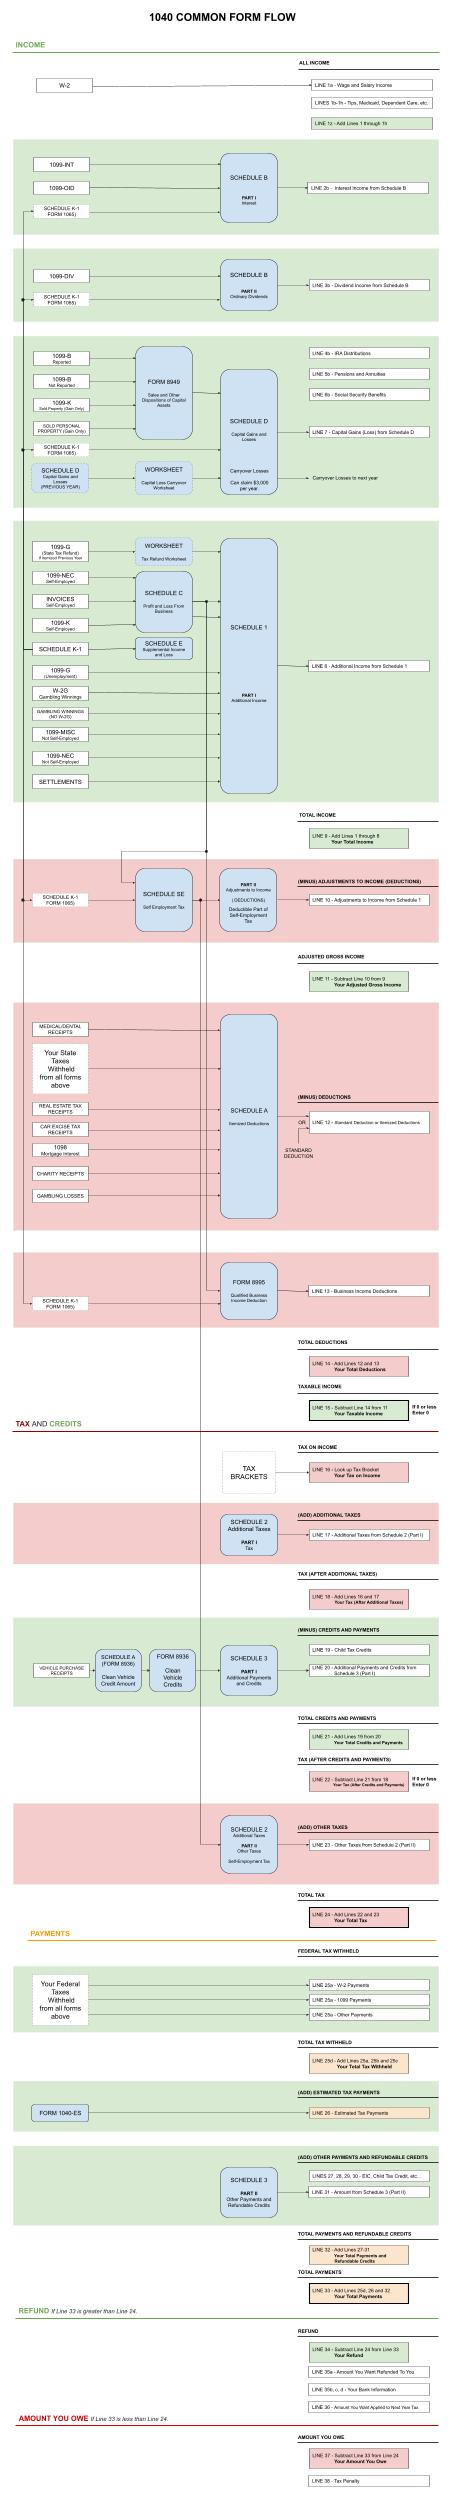
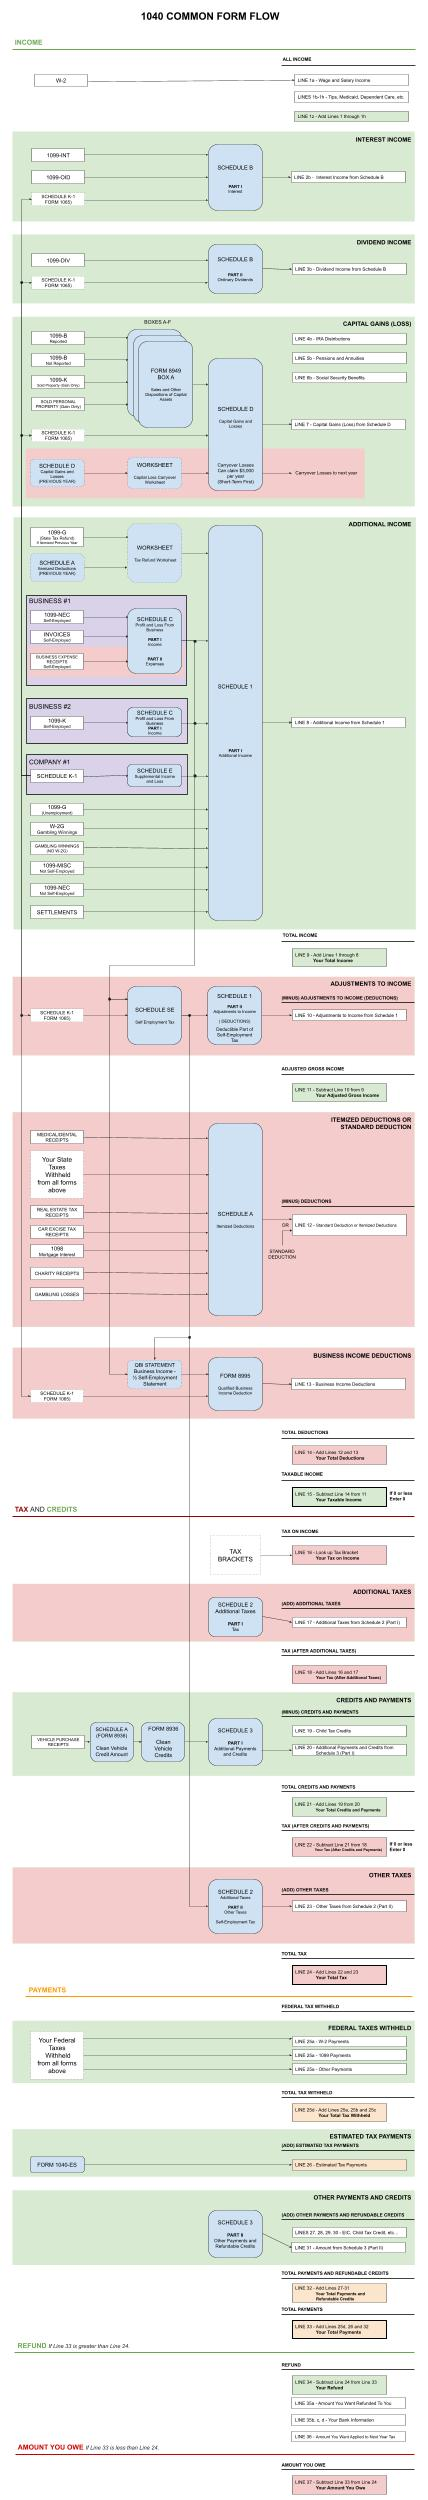
udpate taxes

diff --git a/other/random-things/taxes-cheat-sheet/README.md b/other/random-things/taxes-cheat-sheet/README.md
@@ -12,11 +12,20 @@ Table of Contents
   * [REFUND](https://github.com/JeffDeCola/my-cheat-sheets/tree/master/other/random-things/taxes-cheat-sheet#refund)
   * [AMOUNT YOU OWE](https://github.com/JeffDeCola/my-cheat-sheets/tree/master/other/random-things/taxes-cheat-sheet#amount-you-owe)
 * [RECEIVED FORMS](https://github.com/JeffDeCola/my-cheat-sheets/tree/master/other/random-things/taxes-cheat-sheet#received-forms)
+  * [WAGE INCOME](https://github.com/JeffDeCola/my-cheat-sheets/tree/master/other/random-things/taxes-cheat-sheet#wage-income)
+  * [INTEREST INCOME](https://github.com/JeffDeCola/my-cheat-sheets/tree/master/other/random-things/taxes-cheat-sheet#interest-income)
+  * [DIVIDEND INCOME](https://github.com/JeffDeCola/my-cheat-sheets/tree/master/other/random-things/taxes-cheat-sheet#dividend-income)
+  * [CAPITAL GAINS (LOSS) INCOME](https://github.com/JeffDeCola/my-cheat-sheets/tree/master/other/random-things/taxes-cheat-sheet#capital-gains-loss-income)
+  * [ADDITIONAL INCOME](https://github.com/JeffDeCola/my-cheat-sheets/tree/master/other/random-things/taxes-cheat-sheet#additional-income)
+  * [ITEMIZED DEDUCTIONS](https://github.com/JeffDeCola/my-cheat-sheets/tree/master/other/random-things/taxes-cheat-sheet#itemized-deductions)
+  * [CREDITS](https://github.com/JeffDeCola/my-cheat-sheets/tree/master/other/random-things/taxes-cheat-sheet#credits)
+  * [ESTIMATED TAX PAYMENTS](https://github.com/JeffDeCola/my-cheat-sheets/tree/master/other/random-things/taxes-cheat-sheet#estimated-tax-payments)
+  * [RETIREMENT INFORMATION](https://github.com/JeffDeCola/my-cheat-sheets/tree/master/other/random-things/taxes-cheat-sheet#retirement-information)
 * [SCHEDULES AND OTHER FORMS](https://github.com/JeffDeCola/my-cheat-sheets/tree/master/other/random-things/taxes-cheat-sheet#schedules-and-other-forms)
   * [SCHEDULE B - INTEREST AND ORDINARY DIVIDENDS](https://github.com/JeffDeCola/my-cheat-sheets/tree/master/other/random-things/taxes-cheat-sheet#schedule-b---interest-and-ordinary-dividends)
   * [FORM 8949 - SALES AND OTHER DISPOSITIONS OF CAPITAL ASSETS](https://github.com/JeffDeCola/my-cheat-sheets/tree/master/other/random-things/taxes-cheat-sheet#form-8949---sales-and-other-dispositions-of-capital-assets)
-  * [CAPITAL LOSS CARRYOVER WORKSHEET](https://github.com/JeffDeCola/my-cheat-sheets/tree/master/other/random-things/taxes-cheat-sheet#capital-loss-carryover-worksheet)
   * [SCHEDULE D - CAPITAL GAINS AND LOSSES](https://github.com/JeffDeCola/my-cheat-sheets/tree/master/other/random-things/taxes-cheat-sheet#schedule-d---capital-gains-and-losses)
+  * [CAPITAL LOSS CARRYOVER WORKSHEET](https://github.com/JeffDeCola/my-cheat-sheets/tree/master/other/random-things/taxes-cheat-sheet#capital-loss-carryover-worksheet)
   * [TAX REFUND WORKSHEET](https://github.com/JeffDeCola/my-cheat-sheets/tree/master/other/random-things/taxes-cheat-sheet#tax-refund-worksheet)
   * [SCHEDULE 1 - ADDITIONAL INCOME AND ADJUSTMENTS TO INCOME](https://github.com/JeffDeCola/my-cheat-sheets/tree/master/other/random-things/taxes-cheat-sheet#schedule-1---additional-income-and-adjustments-to-income)
   * [SCHEDULE C - PROFIT OR LOSS FROM BUSINESS (SOLE PROPRIETORSHIP)](https://github.com/JeffDeCola/my-cheat-sheets/tree/master/other/random-things/taxes-cheat-sheet#schedule-c---profit-or-loss-from-business-sole-proprietorship)
@@ -24,10 +33,10 @@ Table of Contents
   * [SCHEDULE SE - SELF-EMPLOYMENT TAX](https://github.com/JeffDeCola/my-cheat-sheets/tree/master/other/random-things/taxes-cheat-sheet#schedule-se---self-employment-tax)
   * [SCHEDULE A - ITEMIZED DEDUCTIONS](https://github.com/JeffDeCola/my-cheat-sheets/tree/master/other/random-things/taxes-cheat-sheet#schedule-a---itemized-deductions)
   * [FORM 8995 - QUALIFIED BUSINESS INCOME DEDUCTION](https://github.com/JeffDeCola/my-cheat-sheets/tree/master/other/random-things/taxes-cheat-sheet#form-8995---qualified-business-income-deduction)
+  * [SCHEDULE 2 - ADDITIONAL TAXES](https://github.com/JeffDeCola/my-cheat-sheets/tree/master/other/random-things/taxes-cheat-sheet#schedule-2---additional-taxes)
   * [SCHEDULE A (FORM 8936) - CLEAN VEHICLE CREDIT AMOUNT](https://github.com/JeffDeCola/my-cheat-sheets/tree/master/other/random-things/taxes-cheat-sheet#schedule-a-form-8936---clean-vehicle-credit-amount)
   * [FORM 8936 - CLEAN VEHICLE CREDITS](https://github.com/JeffDeCola/my-cheat-sheets/tree/master/other/random-things/taxes-cheat-sheet#form-8936---clean-vehicle-credits)
   * [SCHEDULE 3 - ADDITIONAL CREDITS AND PAYMENTS](https://github.com/JeffDeCola/my-cheat-sheets/tree/master/other/random-things/taxes-cheat-sheet#schedule-3---additional-credits-and-payments)
-  * [SCHEDULE 2 - ADDITIONAL TAXES](https://github.com/JeffDeCola/my-cheat-sheets/tree/master/other/random-things/taxes-cheat-sheet#schedule-2---additional-taxes)
 * [AN ILLUSTRATION](https://github.com/JeffDeCola/my-cheat-sheets/tree/master/other/random-things/taxes-cheat-sheet#an-illustration)
 
 ## EMPLOYEE FORMS
@@ -179,7 +188,16 @@ _U.S. Individual Income Tax Return._
   * STATE TAX REFUND (If Itemized Deductions Previous Year)
     * **1099-G BOX 1** (State Tax Refund) If you Itemized Deductions from Previous Year
       ->
-      **[TAX REFUND WORKSHEET](https://github.com/JeffDeCola/my-cheat-sheets/tree/master/other/random-things/taxes-cheat-sheet#tax-refund-worksheet) LINE1**
+      **[TAX REFUND WORKSHEET](https://github.com/JeffDeCola/my-cheat-sheets/tree/master/other/random-things/taxes-cheat-sheet#tax-refund-worksheet) LINE 1**
+      ->
+      **LINE 9**
+      ->
+      **[SCHEDULE 1](https://github.com/JeffDeCola/my-cheat-sheets/tree/master/other/random-things/taxes-cheat-sheet#schedule-1---additional-income-and-adjustments-to-income) LINE 1**
+      ->
+      **LINE 10**
+    * **SCHEDULE A (PREVIOUS YEAR) LINE 17**
+      ->
+      **[TAX REFUND WORKSHEET](https://github.com/JeffDeCola/my-cheat-sheets/tree/master/other/random-things/taxes-cheat-sheet#tax-refund-worksheet) LINE 4**
       ->
       **LINE 9**
       ->
@@ -208,6 +226,15 @@ _U.S. Individual Income Tax Return._
     * **1099-K BOX 1a** (Self-Employed)
       ->
       **[SCHEDULE C](https://github.com/JeffDeCola/my-cheat-sheets/tree/master/other/random-things/taxes-cheat-sheet#schedule-c---profit-or-loss-from-business-sole-proprietorship) LINE 1**
+      ->
+      **LINE 31**
+      ->
+      **[SCHEDULE 1](https://github.com/JeffDeCola/my-cheat-sheets/tree/master/other/random-things/taxes-cheat-sheet#schedule-1---additional-income-and-adjustments-to-income) LINE 3**
+      ->
+      **LINE 10**
+    * **BUSINESS EXPENSE RECEIPTS** (Self-Employed)
+      ->
+      **[SCHEDULE C](https://github.com/JeffDeCola/my-cheat-sheets/tree/master/other/random-things/taxes-cheat-sheet#schedule-c---profit-or-loss-from-business-sole-proprietorship) LINES 8-27**
       ->
       **LINE 31**
       ->
@@ -627,6 +654,8 @@ _If Line 33 is less than Line 24._
 
 _In order used on form 1040._
 
+### WAGE INCOME
+
 * **W-2** - Wage and Tax Statement
   * Wage Income:
     **BOX 1**
@@ -644,6 +673,9 @@ _In order used on form 1040._
     **LINE 17**
     ->
     **1040 LINE 12**
+
+### INTEREST INCOME
+
 * **1099-INT** - Interest Income
   * Interest Income:
     **BOX 1**
@@ -686,6 +718,9 @@ _In order used on form 1040._
     **LINE 17**
     ->
     **1040 LINE 12**
+
+### DIVIDEND INCOME
+
 * **1099-DIV** - Dividends and Distributions
   * Dividend Income:
     **BOX 1a**
@@ -707,6 +742,9 @@ _In order used on form 1040._
     **LINE 17**
     ->
     **1040 LINE 12**
+
+### CAPITAL GAINS (LOSS) INCOME
+
 * **1099-B** - Proceeds From Broker and Barter Exchange Transactions (Reported)
   * Short-Term Capitol Gains (Loss) (BOX A):
     **VARIOUS BOXES**
@@ -868,11 +906,27 @@ _In order used on form 1040._
     **LINE 16**
     ->
     **1040 LINE 7**
+
+### ADDITIONAL INCOME
+
 * **1099-G** - Certain Government Payments (State Tax Refund) if Itemized Deductions Previous Year
   * Additional Income (State Tax Refund):
     **BOX 1**
     ->
     **[TAX REFUND WORKSHEET](https://github.com/JeffDeCola/my-cheat-sheets/tree/master/other/random-things/taxes-cheat-sheet#tax-refund-worksheet) LINE 1**
+    ->
+    **LINE 7**
+    ->
+    **[SCHEDULE 1](https://github.com/JeffDeCola/my-cheat-sheets/tree/master/other/random-things/taxes-cheat-sheet#schedule-1---additional-income-and-adjustments-to-income) LINE 1**
+    ->
+    **LINE 10**
+    ->
+    **1040 LINE 8**
+* **SCHEDULE A (PREVIOUS YEAR)** - Itemized Deductions
+  * Total Itemized Deductions:
+    **LINE 17**
+    ->
+    **[TAX REFUND WORKSHEET](https://github.com/JeffDeCola/my-cheat-sheets/tree/master/other/random-things/taxes-cheat-sheet#tax-refund-worksheet) LINE 4**
     ->
     **LINE 7**
     ->
@@ -1076,6 +1130,19 @@ _In order used on form 1040._
     **LINE 17**
     ->
     **1040 LINE 12**
+* **BUSINESS EXPENSE RECEIPTS** (Self-Employed)
+  * Business Expenses:
+    **TOTAL AMOUNT**
+    ->
+    **[SCHEDULE C](https://github.com/JeffDeCola/my-cheat-sheets/tree/master/other/random-things/taxes-cheat-sheet#schedule-c---profit-or-loss-from-business-sole-proprietorship) LINES 8-27**
+    ->
+    **LINE 31**
+    ->
+    **[SCHEDULE 1](https://github.com/JeffDeCola/my-cheat-sheets/tree/master/other/random-things/taxes-cheat-sheet#schedule-1---additional-income-and-adjustments-to-income) LINE 3**
+    ->
+    **LINE 10**
+    ->
+    **1040 LINE 8**
 * **SCHEDULE K-1 (FORM 1065)** - Partner's Share of Income, Deductions, Credits, etc.
   * Interest Income:
     **BOX 5**
@@ -1259,6 +1326,9 @@ _In order used on form 1040._
     **LINE 10**
     ->
     **1040 LINE 8**
+
+### ITEMIZED DEDUCTIONS
+
 * **MEDICAL/DENTAL RECEIPTS**
   * Itemized Deductions:
     **TOTAL AMOUNT**
@@ -1313,6 +1383,9 @@ _In order used on form 1040._
     **LINE 17**
     ->
     **1040 LINE 12**
+
+### CREDITS
+
 * **VEHICLE PURCHASE RECEIPTS**
   * Additional Payments and Credits from Schedule 3 (Part I) (Clean Vehicle Credit):
     **TOTAL AMOUNT & INFO**
@@ -1330,11 +1403,17 @@ _In order used on form 1040._
     **LINE 8**
     ->
     **1040 LINE 20**
+
+### ESTIMATED TAX PAYMENTS
+
 * **1040-ES** - Estimated Tax for Individuals (You sent this form to IRS)
   * Payments:
     **TOTAL AMOUNT** from all payment vouchers
     ->
     **1040 LINE 26**
+
+### RETIREMENT INFORMATION
+
 * **5498** - IRA Contribution Information
   * Information Only
     * Just for your records
@@ -1466,6 +1545,8 @@ _In order used on form 1040._
 
 * LINE 1
   * **1099-G BOX 1** (State Tax Refund) If you Itemized Deductions from Previous Year
+* LINE 4
+  * **SCHEDULE A (PREVIOUS YEAR) LINE 17**
 * LINE 9 Taxable Part of your Refund
   * Enter **[SCHEUDLE 1 LINE 1](https://github.com/JeffDeCola/my-cheat-sheets/tree/master/other/random-things/taxes-cheat-sheet#schedule-1---additional-income-and-adjustments-to-income)**
 
@@ -1476,6 +1557,11 @@ _In order used on form 1040._
     * **1099-G BOX 1** (State Tax Refund) If you Itemized Deductions from Previous Year
       ->
       **[TAX REFUND WORKSHEET](https://github.com/JeffDeCola/my-cheat-sheets/tree/master/other/random-things/taxes-cheat-sheet#tax-refund-worksheet) LINE1**
+      ->
+      **LINE 9**
+    * **SCHEDULE A (PREVIOUS YEAR) LINE 17**
+      ->
+      **[TAX REFUND WORKSHEET](https://github.com/JeffDeCola/my-cheat-sheets/tree/master/other/random-things/taxes-cheat-sheet#tax-refund-worksheet) LINE4**
       ->
       **LINE 9**
   * LINE 3 - Business Income (Loss)
@@ -1561,6 +1647,8 @@ _In order used on form 1040._
     * From **LINE 42** (below)
   * LINE 7 - Gross Income (Loss)
 * PART II - EXPENSES
+  * LINES 8-27 - Various Business Expenses
+    * **BUSINESS EXPENSE RECEIPTS** (Self Employed)
   * LINE 28 - Total Expenses
   * LINE 31 - Net Profit (Loss)
     * Enter **[SCHEDULE 1 LINE 3](https://github.com/JeffDeCola/my-cheat-sheets/tree/master/other/random-things/taxes-cheat-sheet#schedule-1---additional-income-and-adjustments-to-income)**
